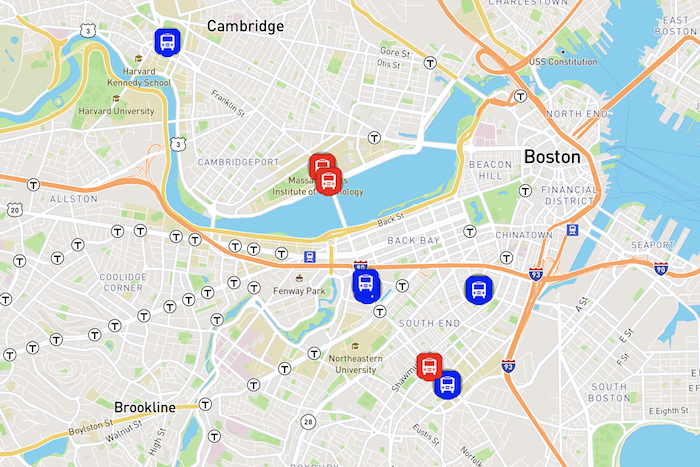
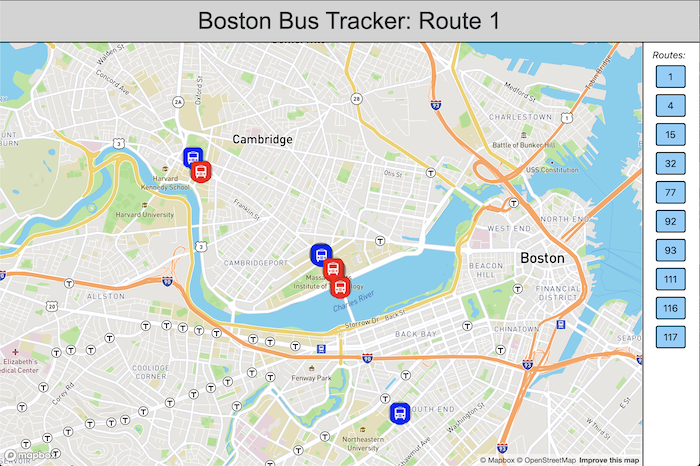
updating real-time bus tracker project

diff --git a/index.html b/index.html
@@ -144,8 +144,8 @@
                             <div class="caption">
                                 <div class="caption-content">
                                     <div class="h2">Real-time Bus Tracker</div>
-                                    <div class="h2">JS | HTML | CSS</div>
-                                    <p class="mb-0">An updating map of Boston's route 1 bus location!</p>
+                                    <div class="h2">JS | HTML | CSS | Mapbox</div>
+                                    <p class="mb-0">Choose a Boston bus route to get location and seating info!</p>
                                 </div> 
                             </div>
                             <img class="img-fluid" src="assets/img/portfolio1.jpg" alt="Screenshot of real-time bus tracker" />
